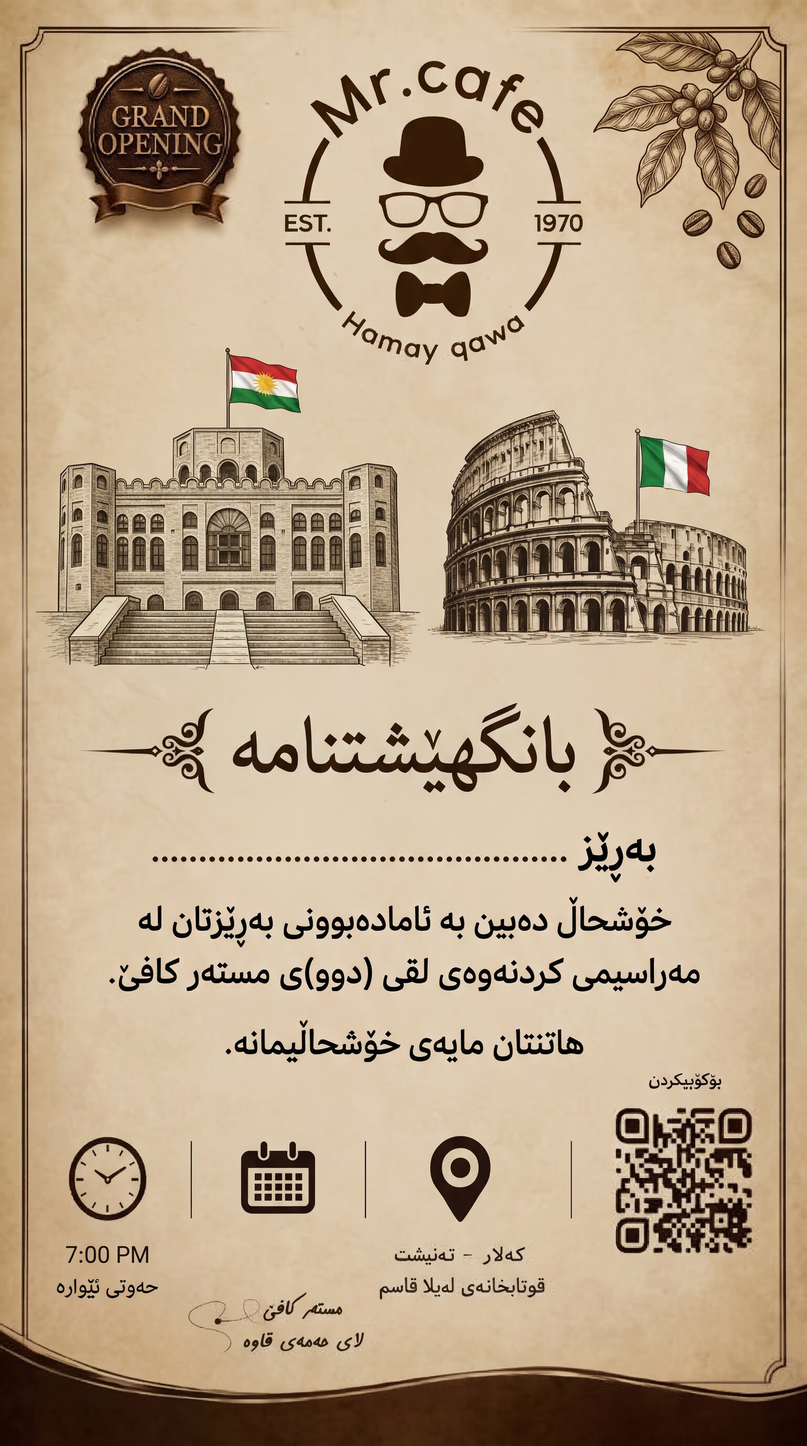
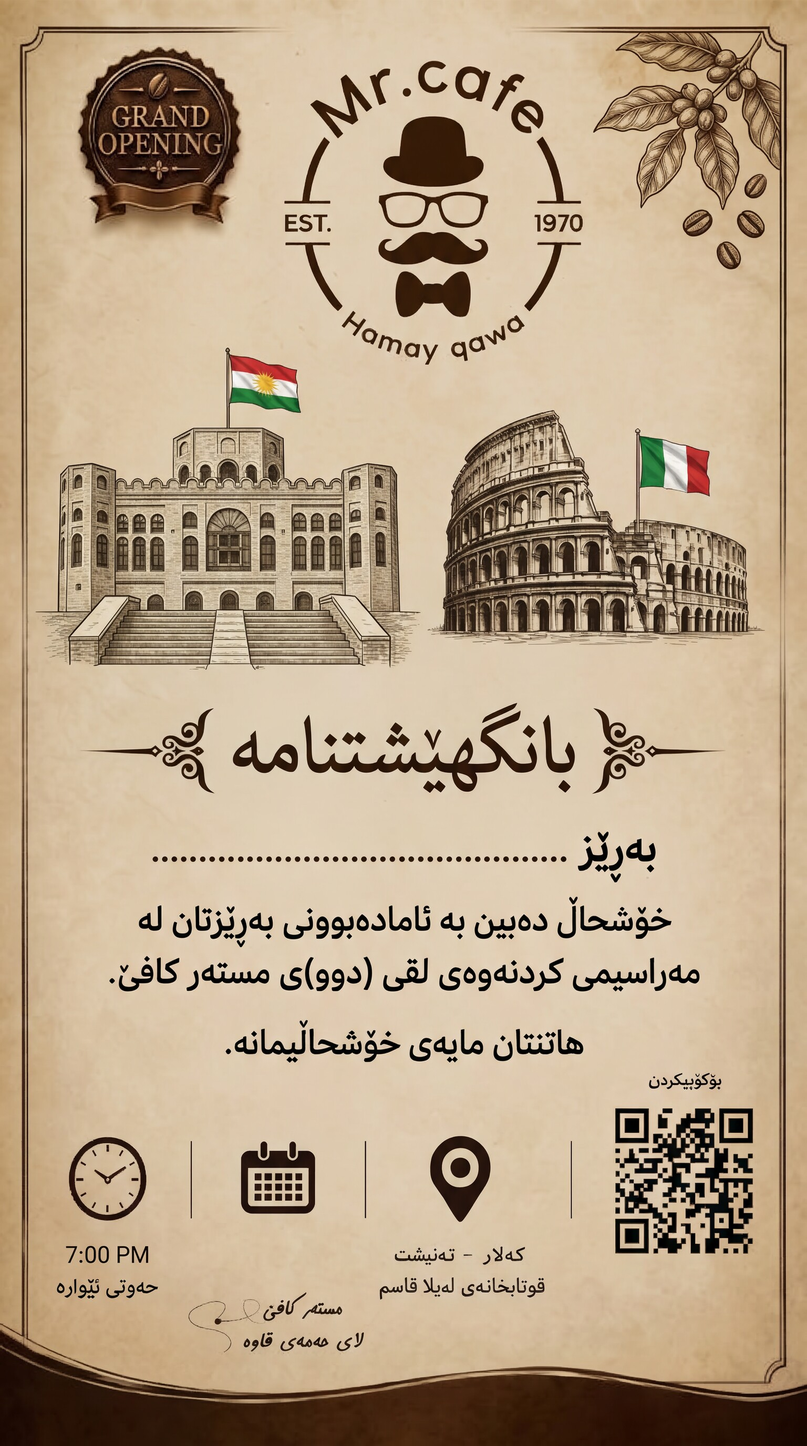
feat: full-size backgrounds with Google Maps link
Replace both template backgrounds with the latest full-resolution
artwork; template 2 now shows the Google Maps link under the QR code.
Both are resized to 1536x2752 so the dotted name line stays at the same
spot, and the image URLs move to ?v=4 so browsers fetch the new files.

diff --git a/app.js b/app.js
@@ -19,7 +19,7 @@
   /* ================= ١) ڕێکخستنی بنەڕەت (لێرە بگۆڕە) ================= */
 
   const CFG = {
-    imageSrc: "new_invite_bg.jpg?v=3", // وێنەی باکگراوند لە تەنیشت index.html
+    imageSrc: "new_invite_bg.jpg?v=4", // وێنەی باکگراوند لە تەنیشت index.html
 
     // شوێنی ناو (ڕێژە بۆ قەبارەی وێنە — ٠ … ١)
     centerX: 0.445,     // ناوەندی ئاسۆیی (ناوەندی خاڵەکان)
@@ -40,14 +40,14 @@
   const TEMPLATES = {
     "1": {
       // وێنەیەک کە دەقی یەکەم لەسەر چاپکراوە
-      image: "new_invite_bg.jpg?v=3",
+      image: "new_invite_bg.jpg?v=4",
       body:
         "خۆشحاڵ دەبین بە ئامادەبوونی بەڕێزتان لە مەراسیمی کردنەوەی لقی (دوو)ی مستەر کافێ.\n" +
         "هاتنتان مایەی خۆشحاڵیمانە.",
     },
     "2": {
       // وێنەیەک کە دەقی دووەم لەسەر چاپکراوە
-      image: "new_invite_bg_2.jpg?v=3",
+      image: "new_invite_bg_2.jpg?v=4",
       body:
         "بەڕێزتان بانگێشت کراون بۆ مەراسیمی کردنەوەی لقی (دوو)ی مستەر کافێ،\n" +
         "ئامادەبوونتان مایەی خۆشحاڵیمانە.",
